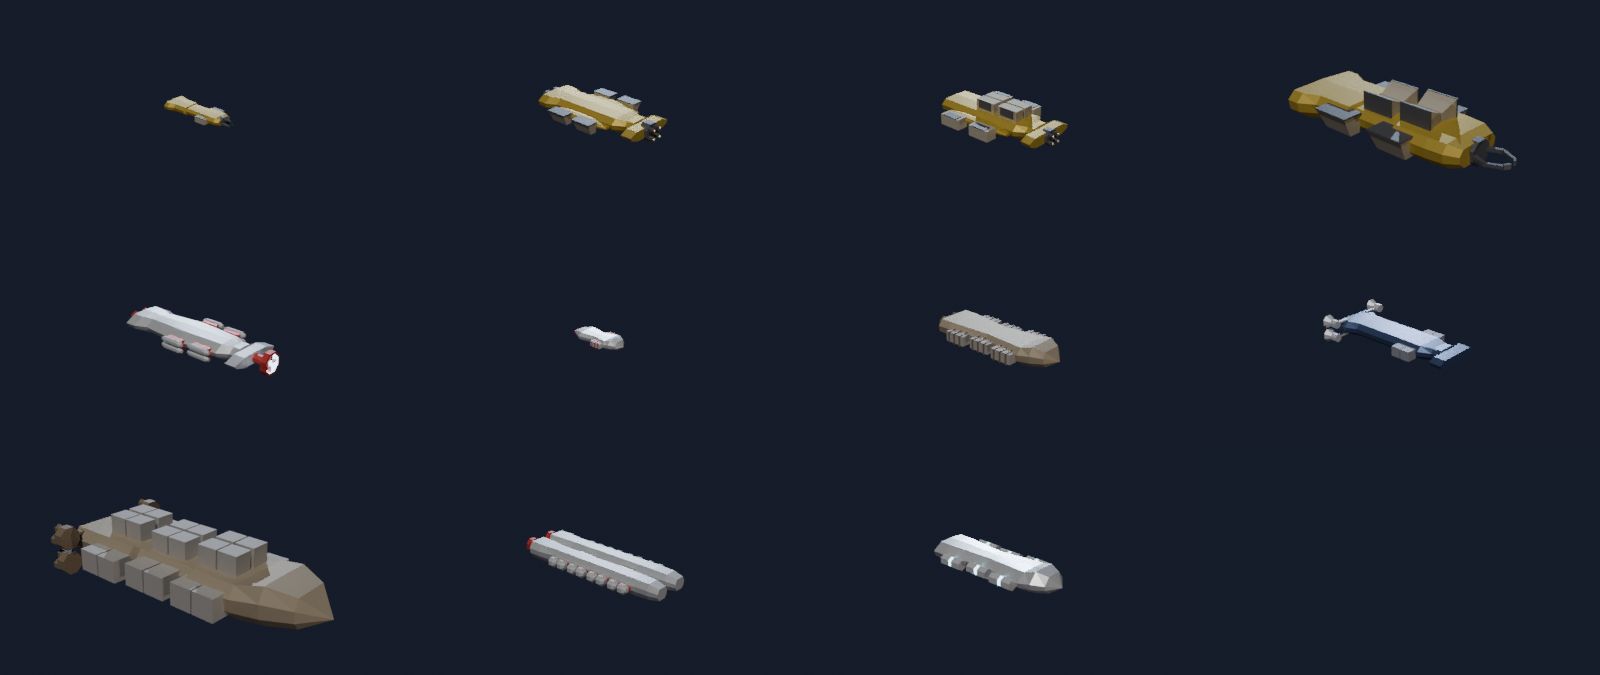
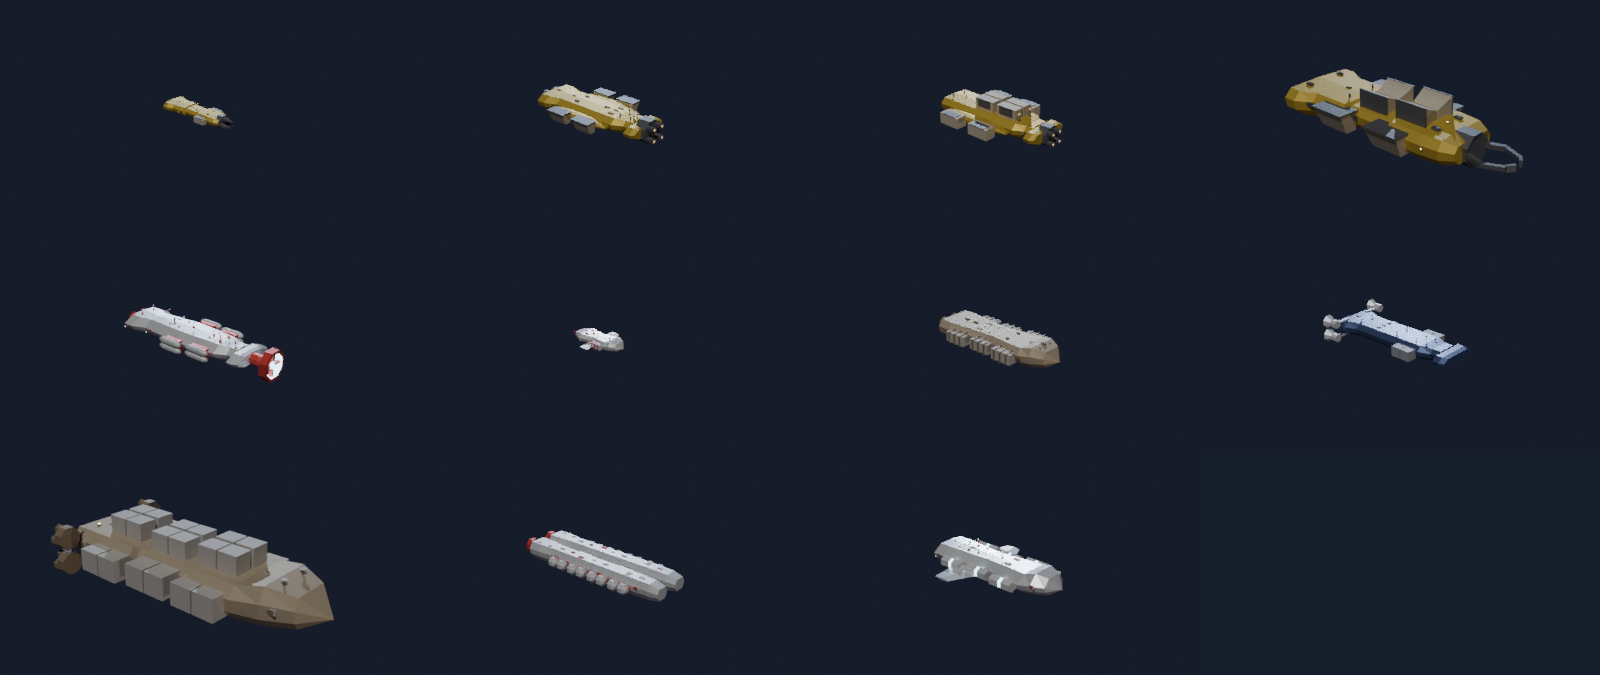
Review fixes: readable greebles, hull-painted wings, bigger rigs, calmer hammer nose
- greebles about twice the size and a bit sparser
- wings use the hull paint instead of the accent colour
- rig size from the model raised (beam x (0.4 + 0.5 size)); mining
  recalibrated (scripts/kit_calibrate.py)
- hammer nose head narrower (1.25) with a chamfered front
- part masses normalised per design like thrust (rig volumes differ by
  design), so the design choice stays below 8 % on every stat
- review renders, shop lineup and stats table regenerated

Claude-Session: https://claude.ai/code/session_0189xRjiiTMx3apXWGHbTKDT

diff --git a/shipgen/kit/__init__.py b/shipgen/kit/__init__.py
@@ -362,7 +362,7 @@ def _build_once(p, cls, stream, design, engine_design, rig_design, module_design
     if rig_design is not None and mining_kind != "none":
         if nose_sockets:
             sk = nose_sockets[0]
-            radius = beam * (0.3 + 0.4 * p["mining"]["size"])  # from the model, not the socket
+            radius = beam * (0.4 + 0.5 * p["mining"]["size"])  # from the model, not the socket
             if radius > sk.radius:
                 warnings.append(f"{FIT_ISSUE}mining rig shrunk to fit the nose ({sk.radius:.2f} < {radius:.2f})")
                 radius = sk.radius
@@ -430,7 +430,8 @@ def _build_once(p, cls, stream, design, engine_design, rig_design, module_design
         bm = parts_bm.copy()
         bm.verts.ensure_lookup_table()
         bmesh.ops.delete(bm, geom=[v for v in bm.verts if v.index not in idx], context="VERTS")
-        pieces.append((f"Ship_{role.capitalize()}", role, bm, ("accent", "glow", "cargo")))
+        slots = ("hull", "glow", "cargo") if role == "wings" else ("accent", "glow", "cargo")  # wings in hull paint
+        pieces.append((f"Ship_{role.capitalize()}", role, bm, slots))
     parts_bm.free()
 
     parts = []
@@ -502,6 +503,13 @@ def _normalized_stats(ship, hull, engine_design, rig_design, module_design, refe
     profile = hull.profile
 
     mass = g["mass_t"] + stats.DENSITY["hull"] * (reference_hull["volume"] - actual_hull["volume"])
+    # part masses as if every design weighed the mean of its kind
+    for role, factor in (("engines", normalize.engine_volume_factors()[engine_design]),
+                         ("mining", normalize.rig_volume_factors()[rig_design] if rig_design is not None else 1.0),
+                         ("cargo", normalize.module_factors()[module_design] if module_design is not None else 1.0)):
+        obj = next((o for o in ship.parts if o["shipgen_role"] == role), None)
+        if obj is not None:
+            mass += stats.DENSITY[role] * stats._measure(obj)["volume"] * (factor - 1.0)
     thrust = g["thrust_kn"] * normalize.engine_factors()[engine_design]
     g["mass_t"] = round(mass, 2)
     g["thrust_kn"] = round(thrust, 2)
@@ -556,12 +564,12 @@ class _StatsHull:
 
 # Mining power per rig kind for the kit's rig library: efficiency x rig volume^(2/3),
 # calibrated (scripts/kit_calibrate.py) so a medium rig (size 0.5 on miner_m) averages ~100.
-KIT_MINING_EFFICIENCY = {"drill": 11.833, "laser": 15.317, "claw": 19.635, "scoop": 17.67}
+KIT_MINING_EFFICIENCY = {"drill": 7.002, "laser": 9.063, "claw": 11.618, "scoop": 10.456}
 
 
 # ---------------------------------------------------------------- greebles
 
-GREEBLE_STEP = 0.07  # spacing of candidate spots along the hull (fraction of the length)
+GREEBLE_STEP = 0.09  # spacing of candidate spots along the hull (fraction of the length)
 GREEBLE_STYLE = 3  # designs per ship, so a ship looks coherent
 
 
@@ -600,7 +608,7 @@ def _add_greebles(p, stream, bm, instances, obstacles, bodies, length, beam, cha
         if tris(hull_bm) + tris(bm) > p["max_tris"] - 200:
             break
         design = rng.choice(style)
-        m = beam * rng.uniform(0.05, 0.1)
+        m = beam * rng.uniform(0.1, 0.18)
         group = f"greeble_{len(instances)}"
         placed = []
         for pos, normal in spot:

diff --git a/shipgen/kit/normalize.py b/shipgen/kit/normalize.py
@@ -56,6 +56,20 @@ def module_factors() -> tuple[float, ...]:
     return _by_kind(module_designs, raw)
 
 
+@functools.cache
+def engine_volume_factors() -> tuple[float, ...]:
+    vols = [_measure(engine_designs.build, i, (0, -1, 0))[1] for i in range(len(engine_designs.DESIGNS))]
+    mean = sum(vols) / len(vols)
+    return tuple(mean / v for v in vols)
+
+
+@functools.cache
+def rig_volume_factors() -> tuple[float, ...]:
+    """Multiply a rig's mass by this so all designs of a kind weigh alike at equal size."""
+    vols = [_measure(rig_designs.build, i, (0, 1, 0))[1] for i in range(len(rig_designs.DESIGNS))]
+    return _by_kind(rig_designs, vols)
+
+
 def cross_section_integral(layouts, length: float) -> float:
     """Integral of width x height along the ship over all bodies (trapezoid rule)."""
     total = 0.0

diff --git a/shipgen/kit/hull_kit.py b/shipgen/kit/hull_kit.py
@@ -49,8 +49,8 @@ NOSES = {
     "wedge": Section(((0, 1, 1, 1), (0.5, 0.6, 0.85, 0.75), (1, 0, 0.2, 0.2)), (0.25, 0.35)),
     "blunt": Section(((0, 1, 1, 1), (0.6, 0.95, 0.95, 0.9), (1, 0.75, 0.7, 0.65)), (0.12, 0.18)),
     "hammer": Section(
-        ((0, 1, 1, 1), (0.35, 0.65, 0.9, 0.85), (0.6, 0.65, 0.9, 0.85), (0.6 + E, 1.45, 0.75, 0.7),
-         (1, 1.45, 0.7, 0.65)),
+        ((0, 1, 1, 1), (0.35, 0.7, 0.9, 0.85), (0.62, 0.7, 0.9, 0.85), (0.62 + E, 1.25, 0.8, 0.75),
+         (0.85, 1.25, 0.78, 0.72), (1, 1.1, 0.7, 0.65)),
         (0.2, 0.26),
     ),
     "cockpit": Section(((0, 1, 1, 1), (0.35, 0.85, 1.3, 0.9), (0.7, 0.55, 1.0, 0.7), (1, 0, 0.25, 0.2)), (0.22, 0.3)),

diff --git a/docs/shop_stats.md b/docs/shop_stats.md
@@ -1,18 +1,18 @@
 | ship | class | length m | mass t | accel m/s² | turn °/s² | hull HP | general m³ | ore m³ | fluid m³ | pax | mining | mining power | range m |
 |---|---|---|---|---|---|---|---|---|---|---|---|---|---|
-| corvette_11 | corvette | 61.16 | 319.64 | 12.26 | 6.89 | 20648 | 163.99 | 0.0 | 0.0 | 0 | none | 0.0 | 0.0 |
-| fighter_42 | fighter | 11.99 | 5.24 | 45.71 | 131.01 | 529 | 0.0 | 0.0 | 0.0 | 0 | none | 0.0 | 0.0 |
-| freighter_7 | freighter | 40.37 | 291.58 | 19.3 | 16.43 | 12680 | 919.04 | 0.0 | 0.0 | 0 | none | 0.0 | 0.0 |
-| hauler_l_204 | freighter | 61.41 | 1072.04 | 6.91 | 3.87 | 27159 | 5143.3 | 0.0 | 0.0 | 0 | none | 0.0 | 0.0 |
-| hauler_m_202 | freighter | 28.68 | 110.19 | 9.36 | 11.22 | 6285 | 465.98 | 0.0 | 0.0 | 0 | none | 0.0 | 0.0 |
-| hauler_m_fast_203 | freighter | 28.13 | 78.73 | 25.99 | 31.76 | 5335 | 273.38 | 0.0 | 0.0 | 0 | none | 0.0 | 0.0 |
-| hauler_s_201 | shuttle | 11.79 | 10.5 | 16.42 | 47.91 | 1236 | 25.93 | 0.0 | 0.0 | 0 | none | 0.0 | 0.0 |
-| interceptor_3 | interceptor | 14.18 | 3.74 | 44.85 | 108.77 | 266 | 0.0 | 0.0 | 0.0 | 0 | none | 0.0 | 0.0 |
-| liner_m_206 | shuttle | 30.33 | 115.65 | 9.16 | 10.39 | 6224 | 206.74 | 0.0 | 0.0 | 16 | none | 0.0 | 0.0 |
-| miner_gas_105 | miner | 30.51 | 120.05 | 7.99 | 9.0 | 8842 | 0.0 | 235.19 | 72.35 | 0 | scoop | 139.33 | 3.93 |
-| miner_l_104 | miner | 43.49 | 541.88 | 5.43 | 4.29 | 22150 | 0.0 | 1955.09 | 0.0 | 0 | claw | 357.34 | 7.68 |
-| miner_m_102 | miner | 25.74 | 88.68 | 8.71 | 11.63 | 6798 | 0.0 | 244.15 | 0.0 | 0 | laser | 96.71 | 36.82 |
-| miner_m_hauler_103 | miner | 25.8 | 96.38 | 6.83 | 9.1 | 6986 | 0.0 | 336.63 | 0.0 | 0 | laser | 70.54 | 31.44 |
-| miner_s_101 | miner | 13.8 | 14.99 | 15.76 | 39.27 | 2101 | 0.0 | 35.26 | 0.0 | 0 | drill | 30.88 | 1.96 |
-| shuttle_5 | shuttle | 9.15 | 5.38 | 18.58 | 69.79 | 818 | 10.95 | 0.0 | 0.0 | 0 | none | 0.0 | 0.0 |
-| tanker_m_205 | freighter | 33.46 | 113.04 | 11.14 | 11.44 | 6813 | 354.97 | 0.0 | 97.99 | 0 | none | 0.0 | 0.0 |
+| corvette_11 | corvette | 61.16 | 366.06 | 7.48 | 4.2 | 27780 | 249.65 | 0.0 | 0.0 | 0 | none | 0.0 | 0.0 |
+| fighter_42 | fighter | 11.99 | 6.27 | 26.7 | 76.54 | 870 | 0.0 | 0.0 | 0.0 | 0 | none | 0.0 | 0.0 |
+| freighter_7 | freighter | 40.37 | 314.2 | 17.91 | 15.25 | 12680 | 919.04 | 0.0 | 0.0 | 0 | none | 0.0 | 0.0 |
+| hauler_l_204 | freighter | 61.41 | 1068.68 | 6.94 | 3.88 | 27159 | 5143.3 | 0.0 | 0.0 | 0 | none | 0.0 | 0.0 |
+| hauler_m_202 | freighter | 28.68 | 106.19 | 9.71 | 11.64 | 6285 | 465.98 | 0.0 | 0.0 | 0 | none | 0.0 | 0.0 |
+| hauler_m_fast_203 | freighter | 28.13 | 82.29 | 24.86 | 30.39 | 5335 | 273.38 | 0.0 | 0.0 | 0 | none | 0.0 | 0.0 |
+| hauler_s_201 | shuttle | 11.79 | 10.99 | 15.69 | 45.77 | 1236 | 25.93 | 0.0 | 0.0 | 0 | none | 0.0 | 0.0 |
+| interceptor_3 | interceptor | 14.18 | 4.91 | 24.3 | 58.93 | 585 | 0.0 | 0.0 | 0.0 | 0 | none | 0.0 | 0.0 |
+| liner_m_206 | shuttle | 30.33 | 129.3 | 8.2 | 9.29 | 6224 | 206.74 | 0.0 | 0.0 | 16 | none | 0.0 | 0.0 |
+| miner_gas_105 | miner | 30.51 | 130.95 | 7.32 | 8.25 | 8842 | 0.0 | 235.19 | 72.35 | 0 | scoop | 138.65 | 5.09 |
+| miner_l_104 | miner | 43.49 | 599.9 | 4.9 | 3.88 | 22150 | 0.0 | 1955.09 | 0.0 | 0 | claw | 356.07 | 9.97 |
+| miner_m_102 | miner | 25.74 | 95.33 | 8.1 | 10.82 | 6798 | 0.0 | 244.15 | 0.0 | 0 | laser | 96.62 | 47.84 |
+| miner_m_hauler_103 | miner | 25.8 | 99.26 | 6.63 | 8.83 | 6986 | 0.0 | 337.44 | 0.0 | 0 | laser | 71.49 | 41.15 |
+| miner_s_101 | miner | 13.8 | 17.62 | 13.41 | 33.41 | 2101 | 0.0 | 35.26 | 0.0 | 0 | drill | 30.86 | 2.55 |
+| shuttle_5 | shuttle | 9.15 | 5.71 | 17.53 | 65.82 | 818 | 10.95 | 0.0 | 0.0 | 0 | none | 0.0 | 0.0 |
+| tanker_m_205 | freighter | 33.46 | 112.77 | 11.16 | 11.47 | 6813 | 354.97 | 0.0 | 97.99 | 0 | none | 0.0 | 0.0 |
